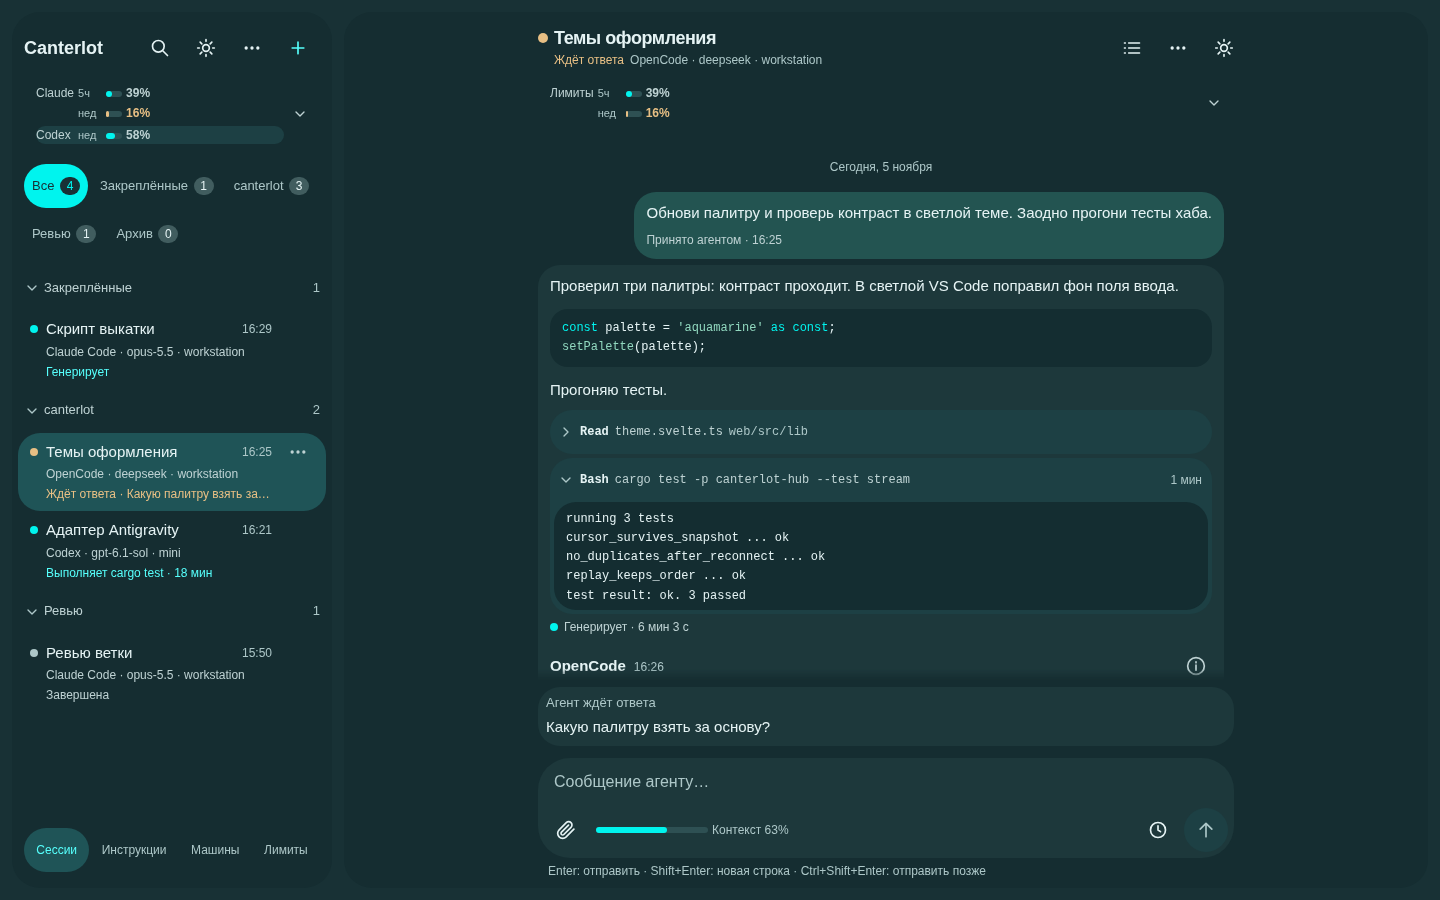
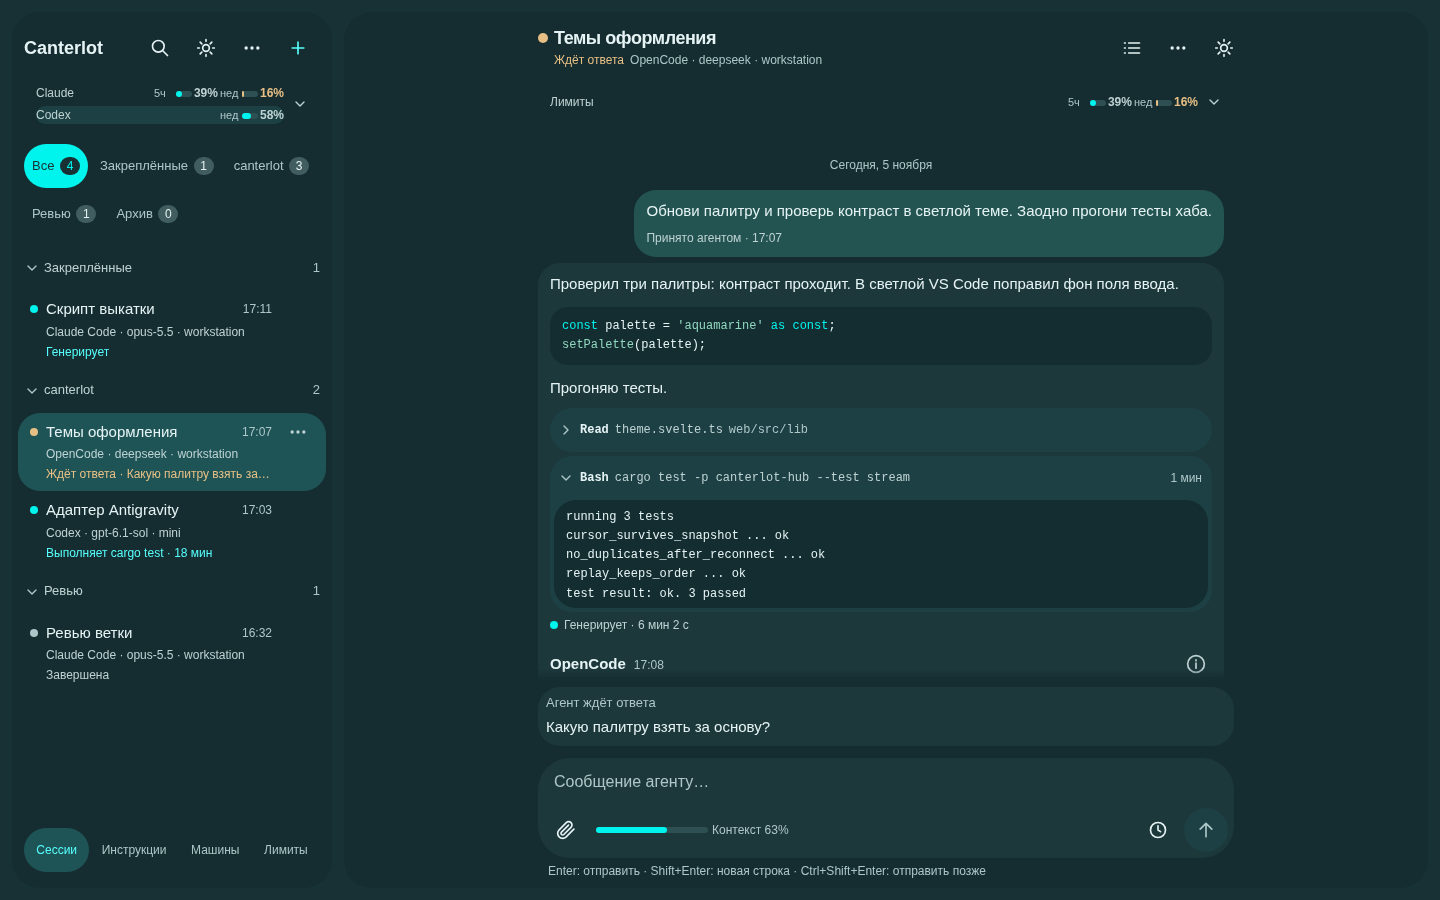
Вернуть свёрнутой полосе лимитов одну строку на провайдера

diff --git a/web/e2e/ui/limits-strip.spec.ts b/web/e2e/ui/limits-strip.spec.ts
@@ -241,8 +241,8 @@ test('a_provider_without_a_five_hour_limit_shows_one_balanced_meter', async ({ p
   const codexRow = strip.locator('.row').nth(1);
   await expect(codexRow.locator('.meter')).toHaveCount(2);
   // Пустой пятичасовой слот не сдвигает недельное окно: «нед» стоит под «нед».
-  const codexWeek = await codexRow.locator('.meter').nth(1).boundingBox();
-  const claudeWeek = await claudeRow.locator('.meter').nth(0).boundingBox();
+  const codexWeek = await codexRow.locator('.meter').nth(1).locator('.tag').boundingBox();
+  const claudeWeek = await claudeRow.locator('.meter').nth(0).locator('.tag').boundingBox();
   expect(Math.abs(claudeWeek!.x - codexWeek!.x)).toBeLessThanOrEqual(1);
   const overflow = await page.evaluate(() => document.documentElement.scrollWidth - document.documentElement.clientWidth);
   expect(overflow).toBeLessThanOrEqual(0);
@@ -366,6 +366,10 @@ test('monthly_windows_line_up_by_kind_across_providers', async ({ page }) => {
   const strip = page.locator('.limits').first();
   const months = strip.locator('.meter[data-window="month"]');
   await expect(months).toHaveCount(2);
+  // Свёрнутая полоса остаётся компактной: месячное окно живёт только в раскрытой.
+  await expect(months.first()).toBeHidden();
+  await strip.locator('summary').click();
+  await expect(months.first()).toBeVisible();
   const boxes = await months.evaluateAll((nodes) => nodes.map((node) => node.getBoundingClientRect().x));
   expect(Math.abs(boxes[0]! - boxes[1]!)).toBeLessThanOrEqual(1);
   await expect(months.nth(0)).toContainText('мес');
@@ -451,6 +455,7 @@ function fourProviders(api: FakeHubApi): void {
 interface WindowMetrics {
   window: string;
   band: string;
+  visible: boolean;
   gaugeX: number;
   bandTop: number;
   bandBottom: number;
@@ -474,10 +479,12 @@ async function windowMetrics(page: Page): Promise<WindowMetrics[]> {
       const reset = meter.querySelector<HTMLElement>('.reset');
       const bandBox = band.getBoundingClientRect();
       const meterBox = meter.getBoundingClientRect();
+      const tagBox = meter.querySelector<HTMLElement>('.tag')!.getBoundingClientRect();
       const resetBox = reset?.getBoundingClientRect();
       return {
         window: meter.dataset.window ?? '',
         band: (band.textContent ?? '').replace(/\s+/g, ' ').trim(),
+        visible: getComputedStyle(meter).display !== 'none' && tagBox.width > 0 && tagBox.height > 0,
         gaugeX: bar.getBoundingClientRect().x,
         bandTop: bandBox.top,
         bandBottom: bandBox.bottom,
@@ -495,16 +502,39 @@ async function windowMetrics(page: Page): Promise<WindowMetrics[]> {
   });
 }
 
+/** Каждая колонка полосы совпадает по x у всех строк, где она есть. */
+function expectColumnsAligned(items: WindowMetrics[], column: string): void {
+  const positions = items.map((item) => item.gaugeX);
+  expect(positions.length).toBeGreaterThan(0);
+  for (const x of positions) expect(Math.abs(x - positions[0]!), column).toBeLessThanOrEqual(1);
+}
+
 async function expectFourProviderStrip(page: Page, open: boolean): Promise<void> {
   const strip = page.locator('.limits').first();
   const isOpen = await strip.evaluate((node) => (node as HTMLDetailsElement).open);
   if (isOpen !== open) await strip.locator('summary').click();
   await expect(strip.locator('.row')).toHaveCount(4);
 
-  const metrics = await windowMetrics(page);
-  expect(metrics.map((item) => item.window)).toEqual(['week', 'five', 'week', 'five', 'week', 'five', 'week', 'month']);
-  // Одна колонка полосы для всех окон всех провайдеров, в обоих состояниях.
-  for (const item of metrics) expect(Math.abs(item.gaugeX - metrics[0]!.gaugeX)).toBeLessThanOrEqual(1);
+  const all = await windowMetrics(page);
+  const metrics = all.filter((item) => item.visible);
+  const month = all.find((item) => item.window === 'month');
+  if (open) {
+    // Раскрытая полоса: каждое окно своей строкой, одна колонка полосы на все окна.
+    expect(metrics.map((item) => item.window)).toEqual(['week', 'five', 'week', 'five', 'week', 'five', 'week', 'month']);
+    expectColumnsAligned(metrics, 'expanded');
+  } else {
+    // Свёрнутая полоса: одна строка на провайдера, 5ч и нед стоят рядом, месяца нет.
+    expect(metrics.map((item) => item.window)).toEqual(['week', 'five', 'week', 'five', 'week', 'five', 'week']);
+    expect(month?.visible).toBe(false);
+    expectColumnsAligned(metrics.filter((item) => item.window === 'five'), 'five');
+    expectColumnsAligned(metrics.filter((item) => item.window === 'week'), 'week');
+    const five = metrics.find((item) => item.window === 'five')!.gaugeX;
+    const week = metrics.find((item) => item.window === 'week')!.gaugeX;
+    expect(week).toBeGreaterThan(five);
+    const heights = await strip.locator('.row').evaluateAll((rows) => rows.map((row) => ({ height: row.getBoundingClientRect().height, line: Number.parseFloat(getComputedStyle(row).lineHeight) })));
+    for (const row of heights) expect(row.height).toBeLessThanOrEqual(row.line * 1.6);
+  }
+
   // Название провайдера не режется, пока в колонке есть место.
   for (const name of FOUR_PROVIDERS) {
     const label = strip.locator('.meter .name').filter({ hasText: name });
@@ -517,16 +547,15 @@ async function expectFourProviderStrip(page: Page, open: boolean): Promise<void>
     expect(item.valueOverflow, `${item.window}: ${item.value}`).toBeLessThanOrEqual(0);
   }
   const stale = metrics.filter((item) => item.value === 'устарело');
-  expect(stale).toHaveLength(3);
+  expect(stale).toHaveLength(open ? 3 : 2);
   for (const item of stale) expect(item.band).toContain('OpenCode');
-  const month = metrics.find((item) => item.window === 'month')!;
-  expect(month.band).toContain('OpenCode');
-  expect(month.meterTop).toBeGreaterThanOrEqual(month.bandTop - 0.5);
-  expect(month.meterBottom).toBeLessThanOrEqual(month.bandBottom + 0.5);
   const summary = await strip.locator('summary').boundingBox();
   expect(summary!.height).toBeGreaterThanOrEqual(44);
 
   if (open) {
+    expect(month?.band).toContain('OpenCode');
+    expect(month!.meterTop).toBeGreaterThanOrEqual(month!.bandTop - 0.5);
+    expect(month!.meterBottom).toBeLessThanOrEqual(month!.bandBottom + 0.5);
     const resets = metrics.filter((item) => item.resetVisible);
     expect(resets).toHaveLength(5);
     for (const item of resets) {

diff --git a/web/src/lib/screens/sessions/LimitsStrip.svelte b/web/src/lib/screens/sessions/LimitsStrip.svelte
@@ -177,6 +177,21 @@
     align-items: baseline;
     min-width: 0;
   }
+  /* Свёрнутая полоса компактна: одна строка на провайдера, 5ч и нед рядом, месяц скрыт. */
+  .limits:not([open]) .rows {
+    grid-template-columns: minmax(0, 1fr) minmax(calc(var(--s4) * 2.5), max-content) var(--gauge-width) max-content minmax(calc(var(--s4) * 2.5), max-content) var(--gauge-width) max-content;
+    column-gap: var(--s1);
+  }
+  .limits:not([open]) .meter { display: contents; }
+  .limits:not([open]) .meter[data-window='month'] { display: none; }
+  .limits:not([open]) .name:empty { display: none; }
+  .limits:not([open]) .meter > .name { grid-column: 1; }
+  .limits:not([open]) .meter[data-window='five'] > .tag { grid-column: 2; }
+  .limits:not([open]) .meter[data-window='five'] > .bar { grid-column: 3; }
+  .limits:not([open]) .meter[data-window='five'] > .pct { grid-column: 4; }
+  .limits:not([open]) .meter[data-window='week'] > .tag { grid-column: 5; }
+  .limits:not([open]) .meter[data-window='week'] > .bar { grid-column: 6; }
+  .limits:not([open]) .meter[data-window='week'] > .pct { grid-column: 7; }
   .name { min-width: 0; overflow: hidden; text-overflow: ellipsis; white-space: nowrap; }
   .tag { color: var(--muted); font-size: var(--fs-xs); white-space: nowrap; }
   .bar { display: inline-flex; }
